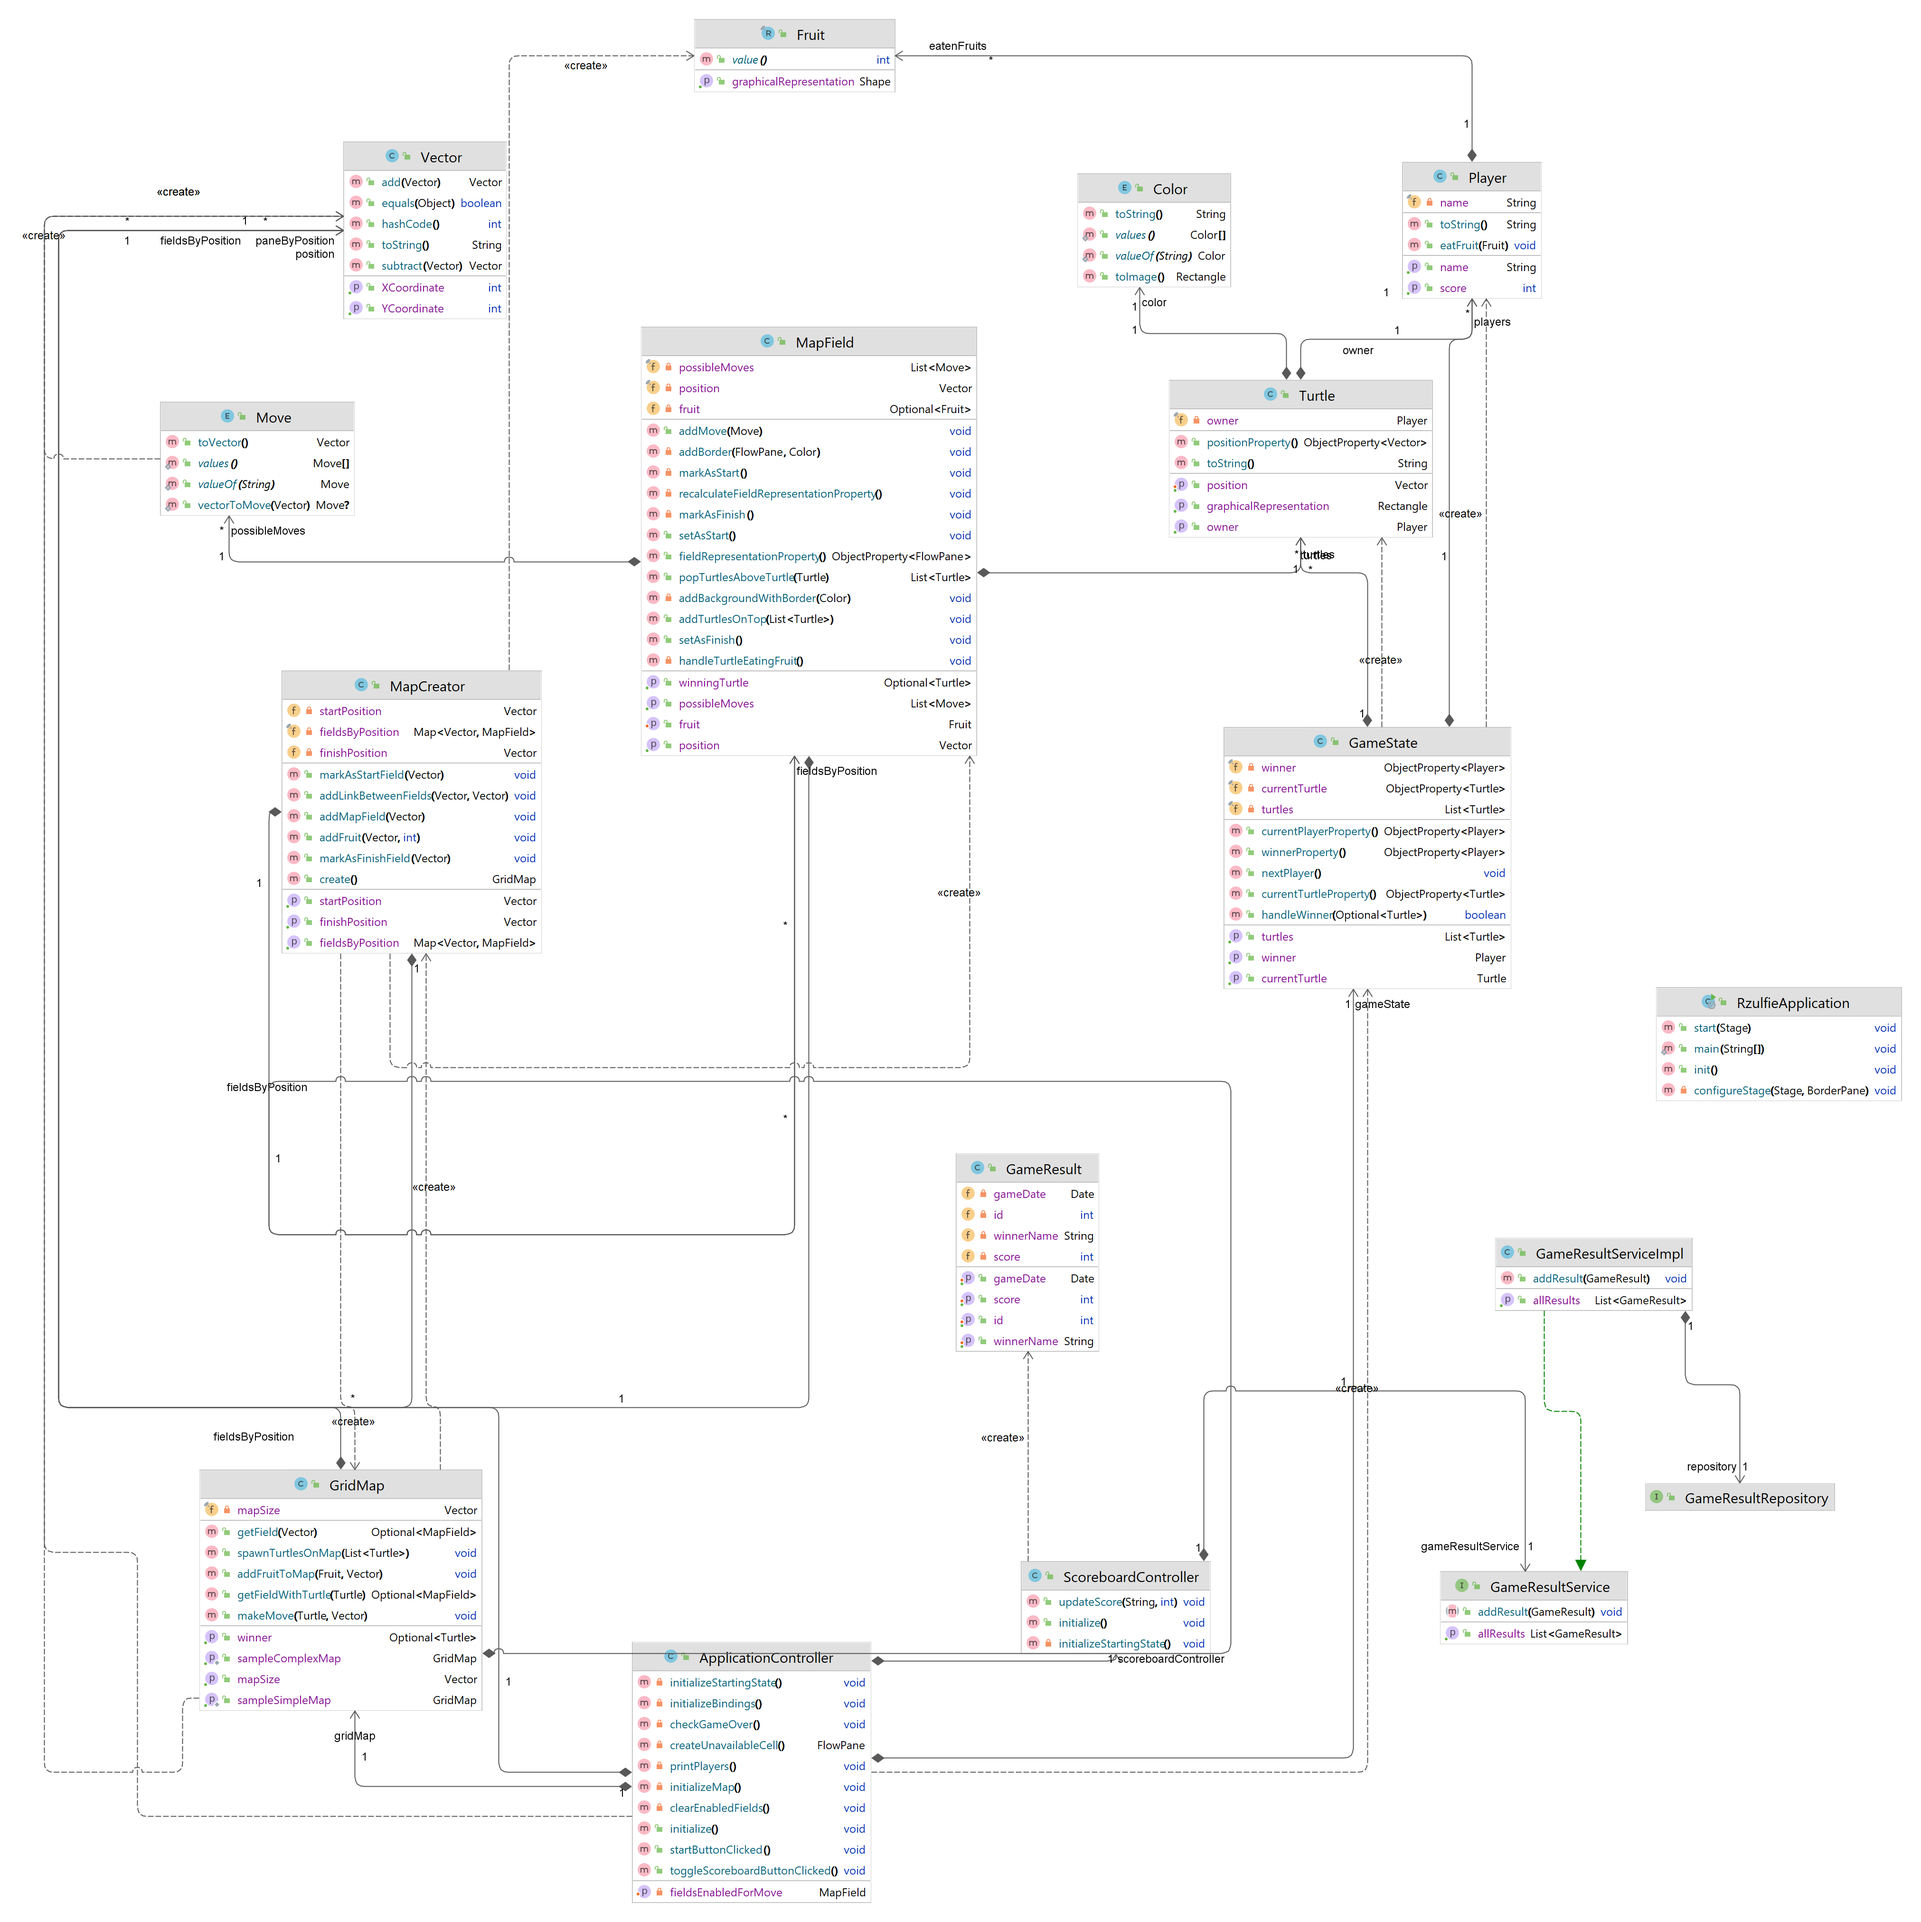
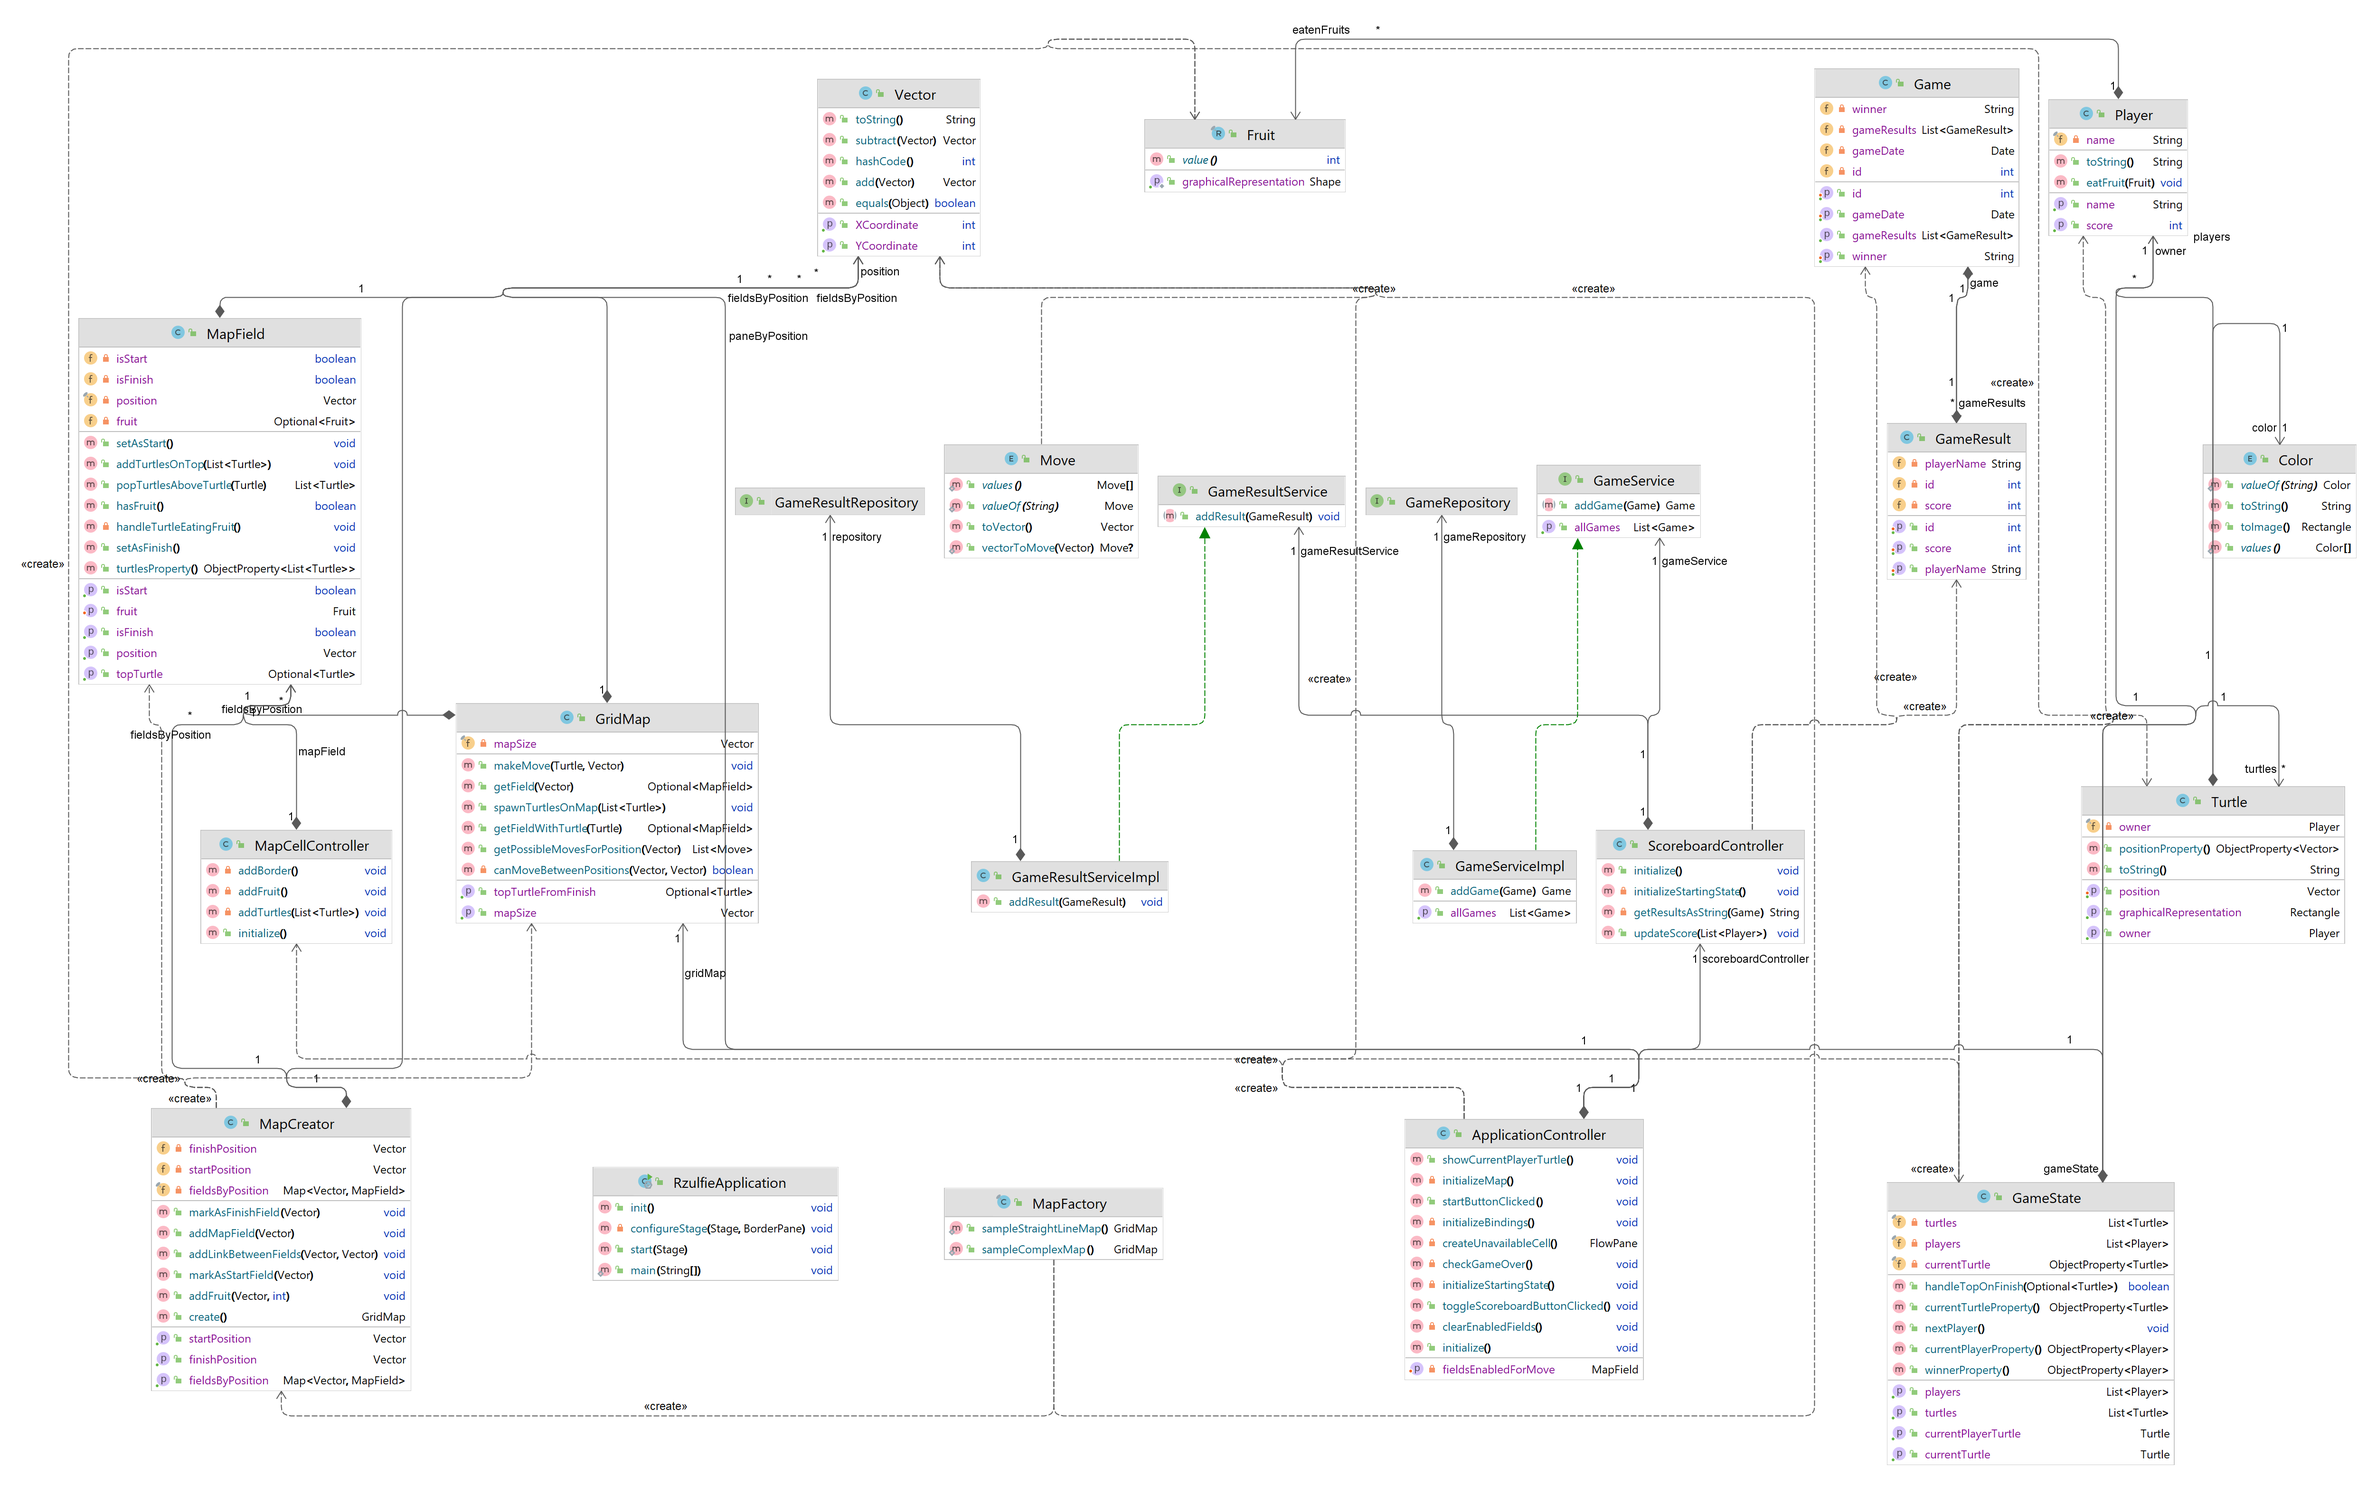
readme and diagram update

diff --git a/Readme.md b/Readme.md
@@ -5,6 +5,10 @@
 In order to run application, use gradle script
 
 ## Changelog:
+#### Milestone 3:
+* enhanced game results
+* current player's turtle is hidden by default
+
 #### Milestone 2:
 * added 2d map
 * added fruits to the map
